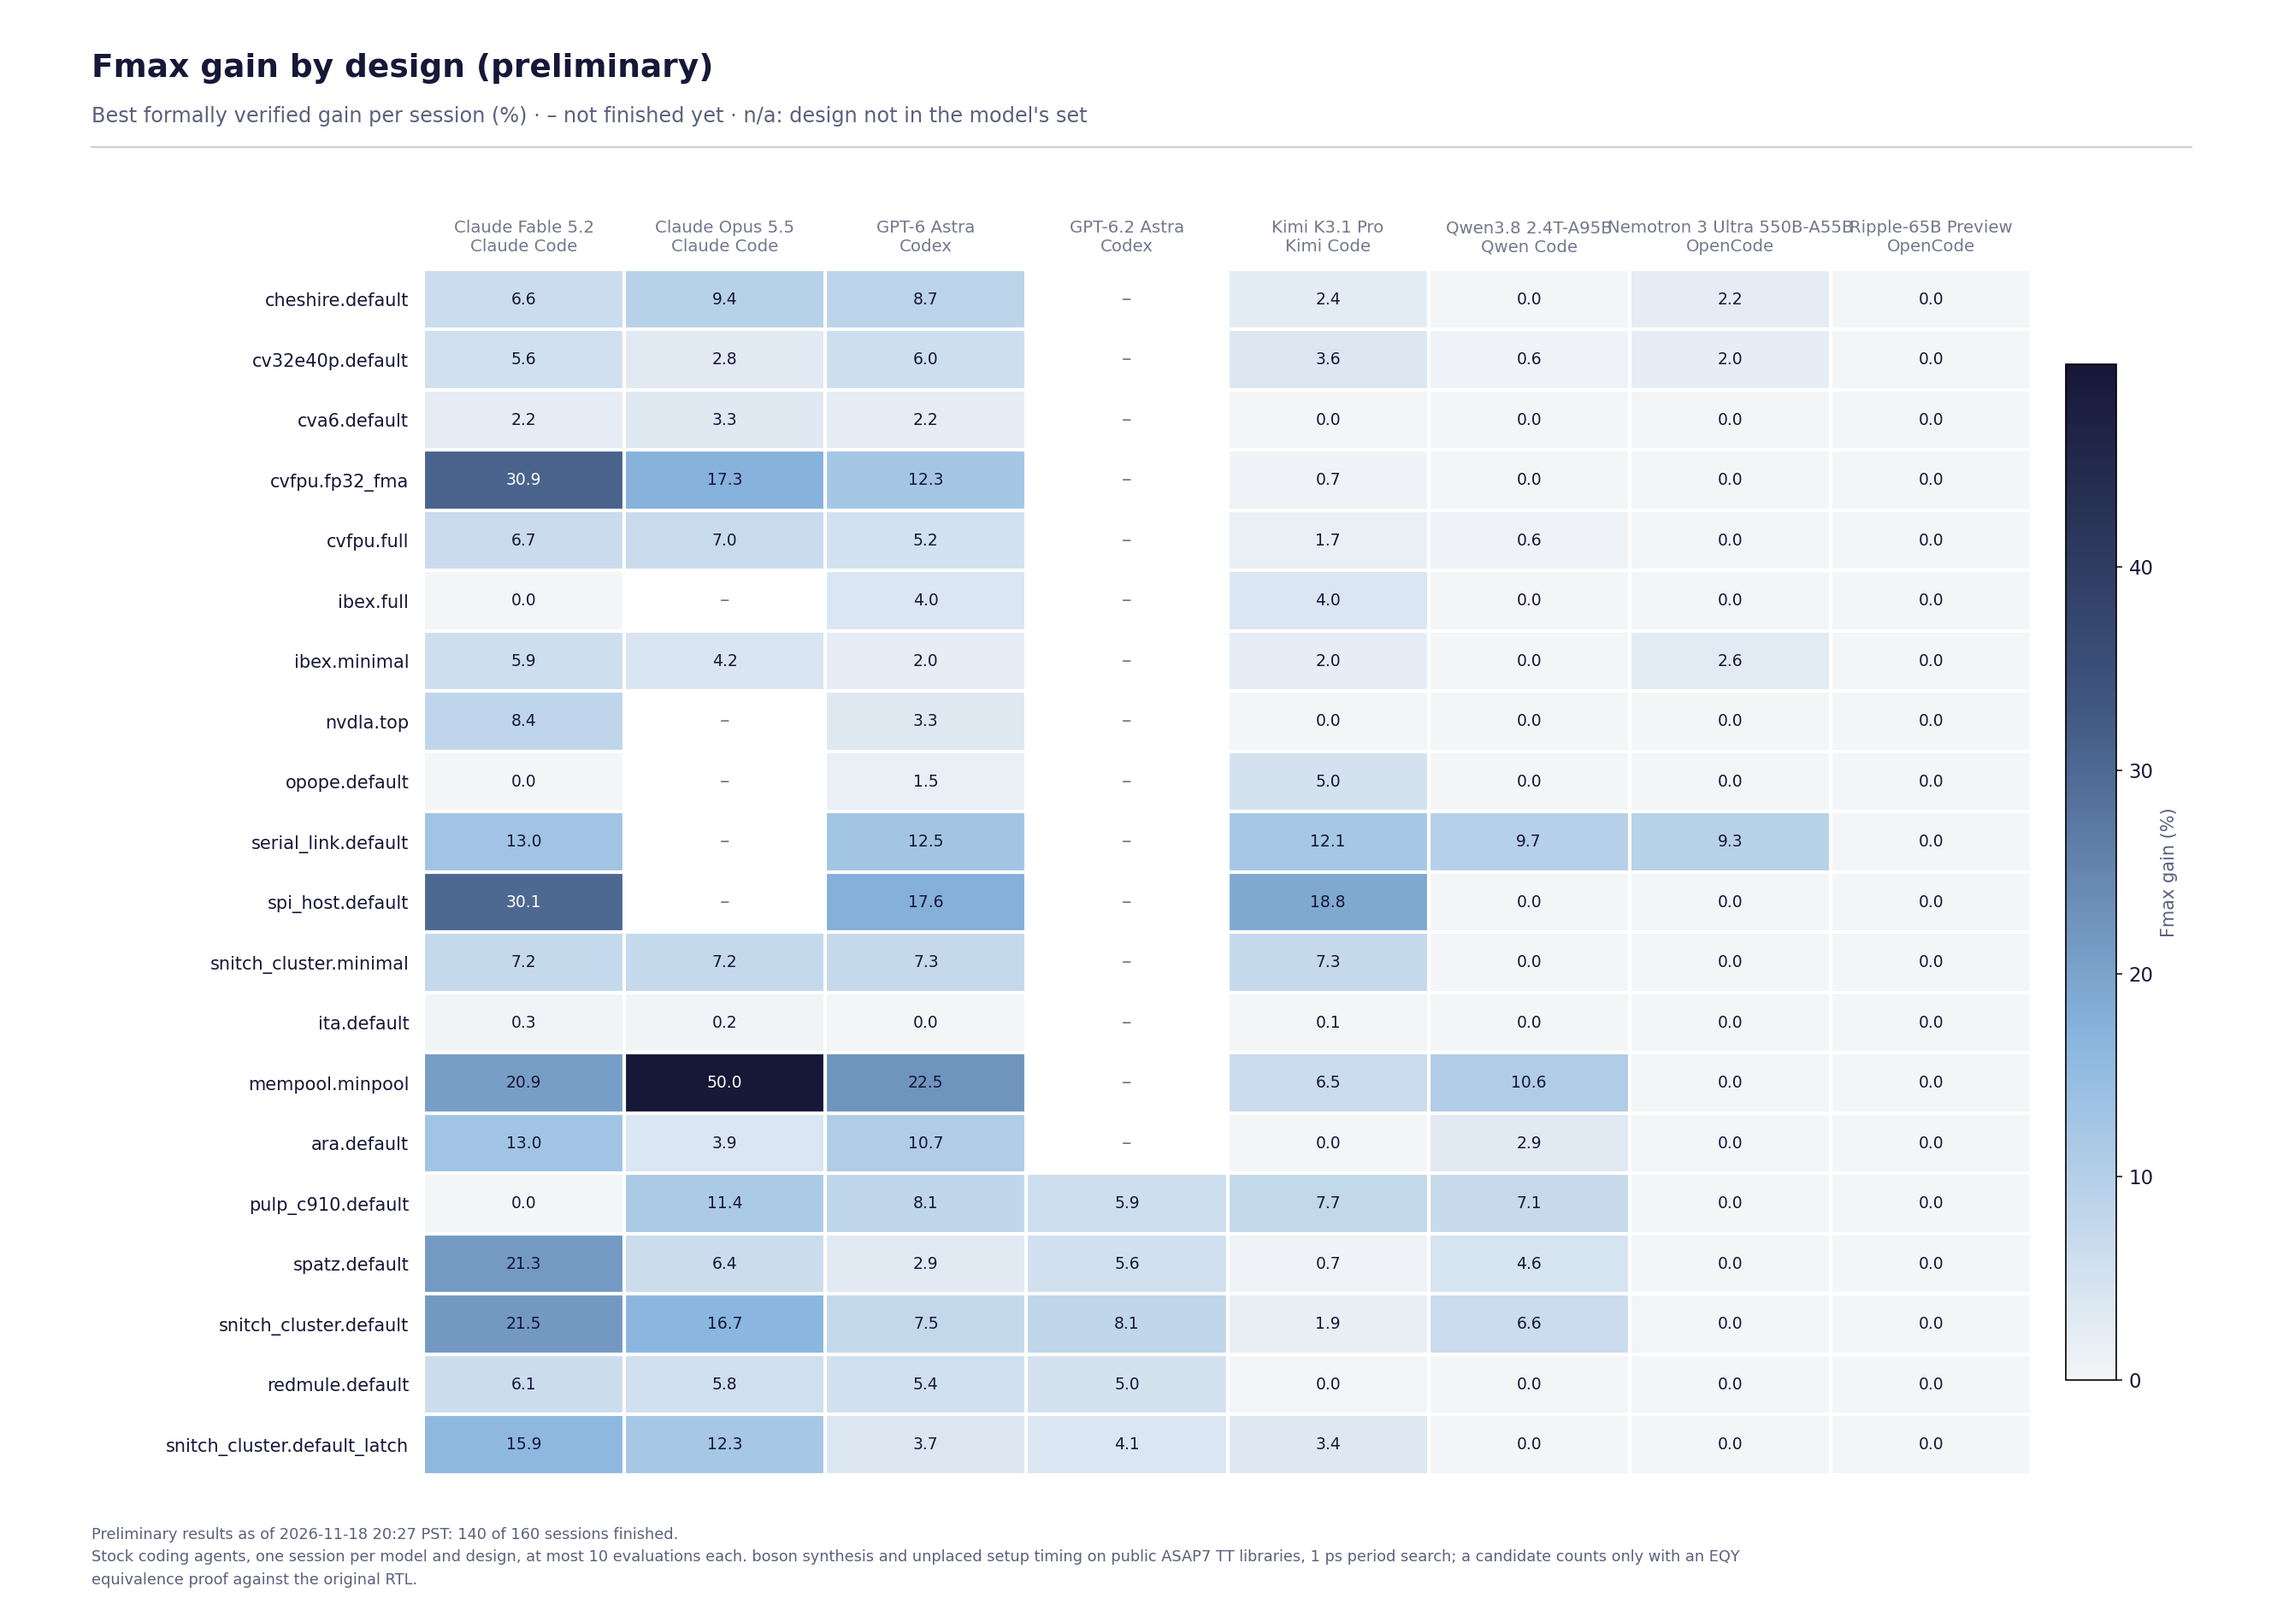
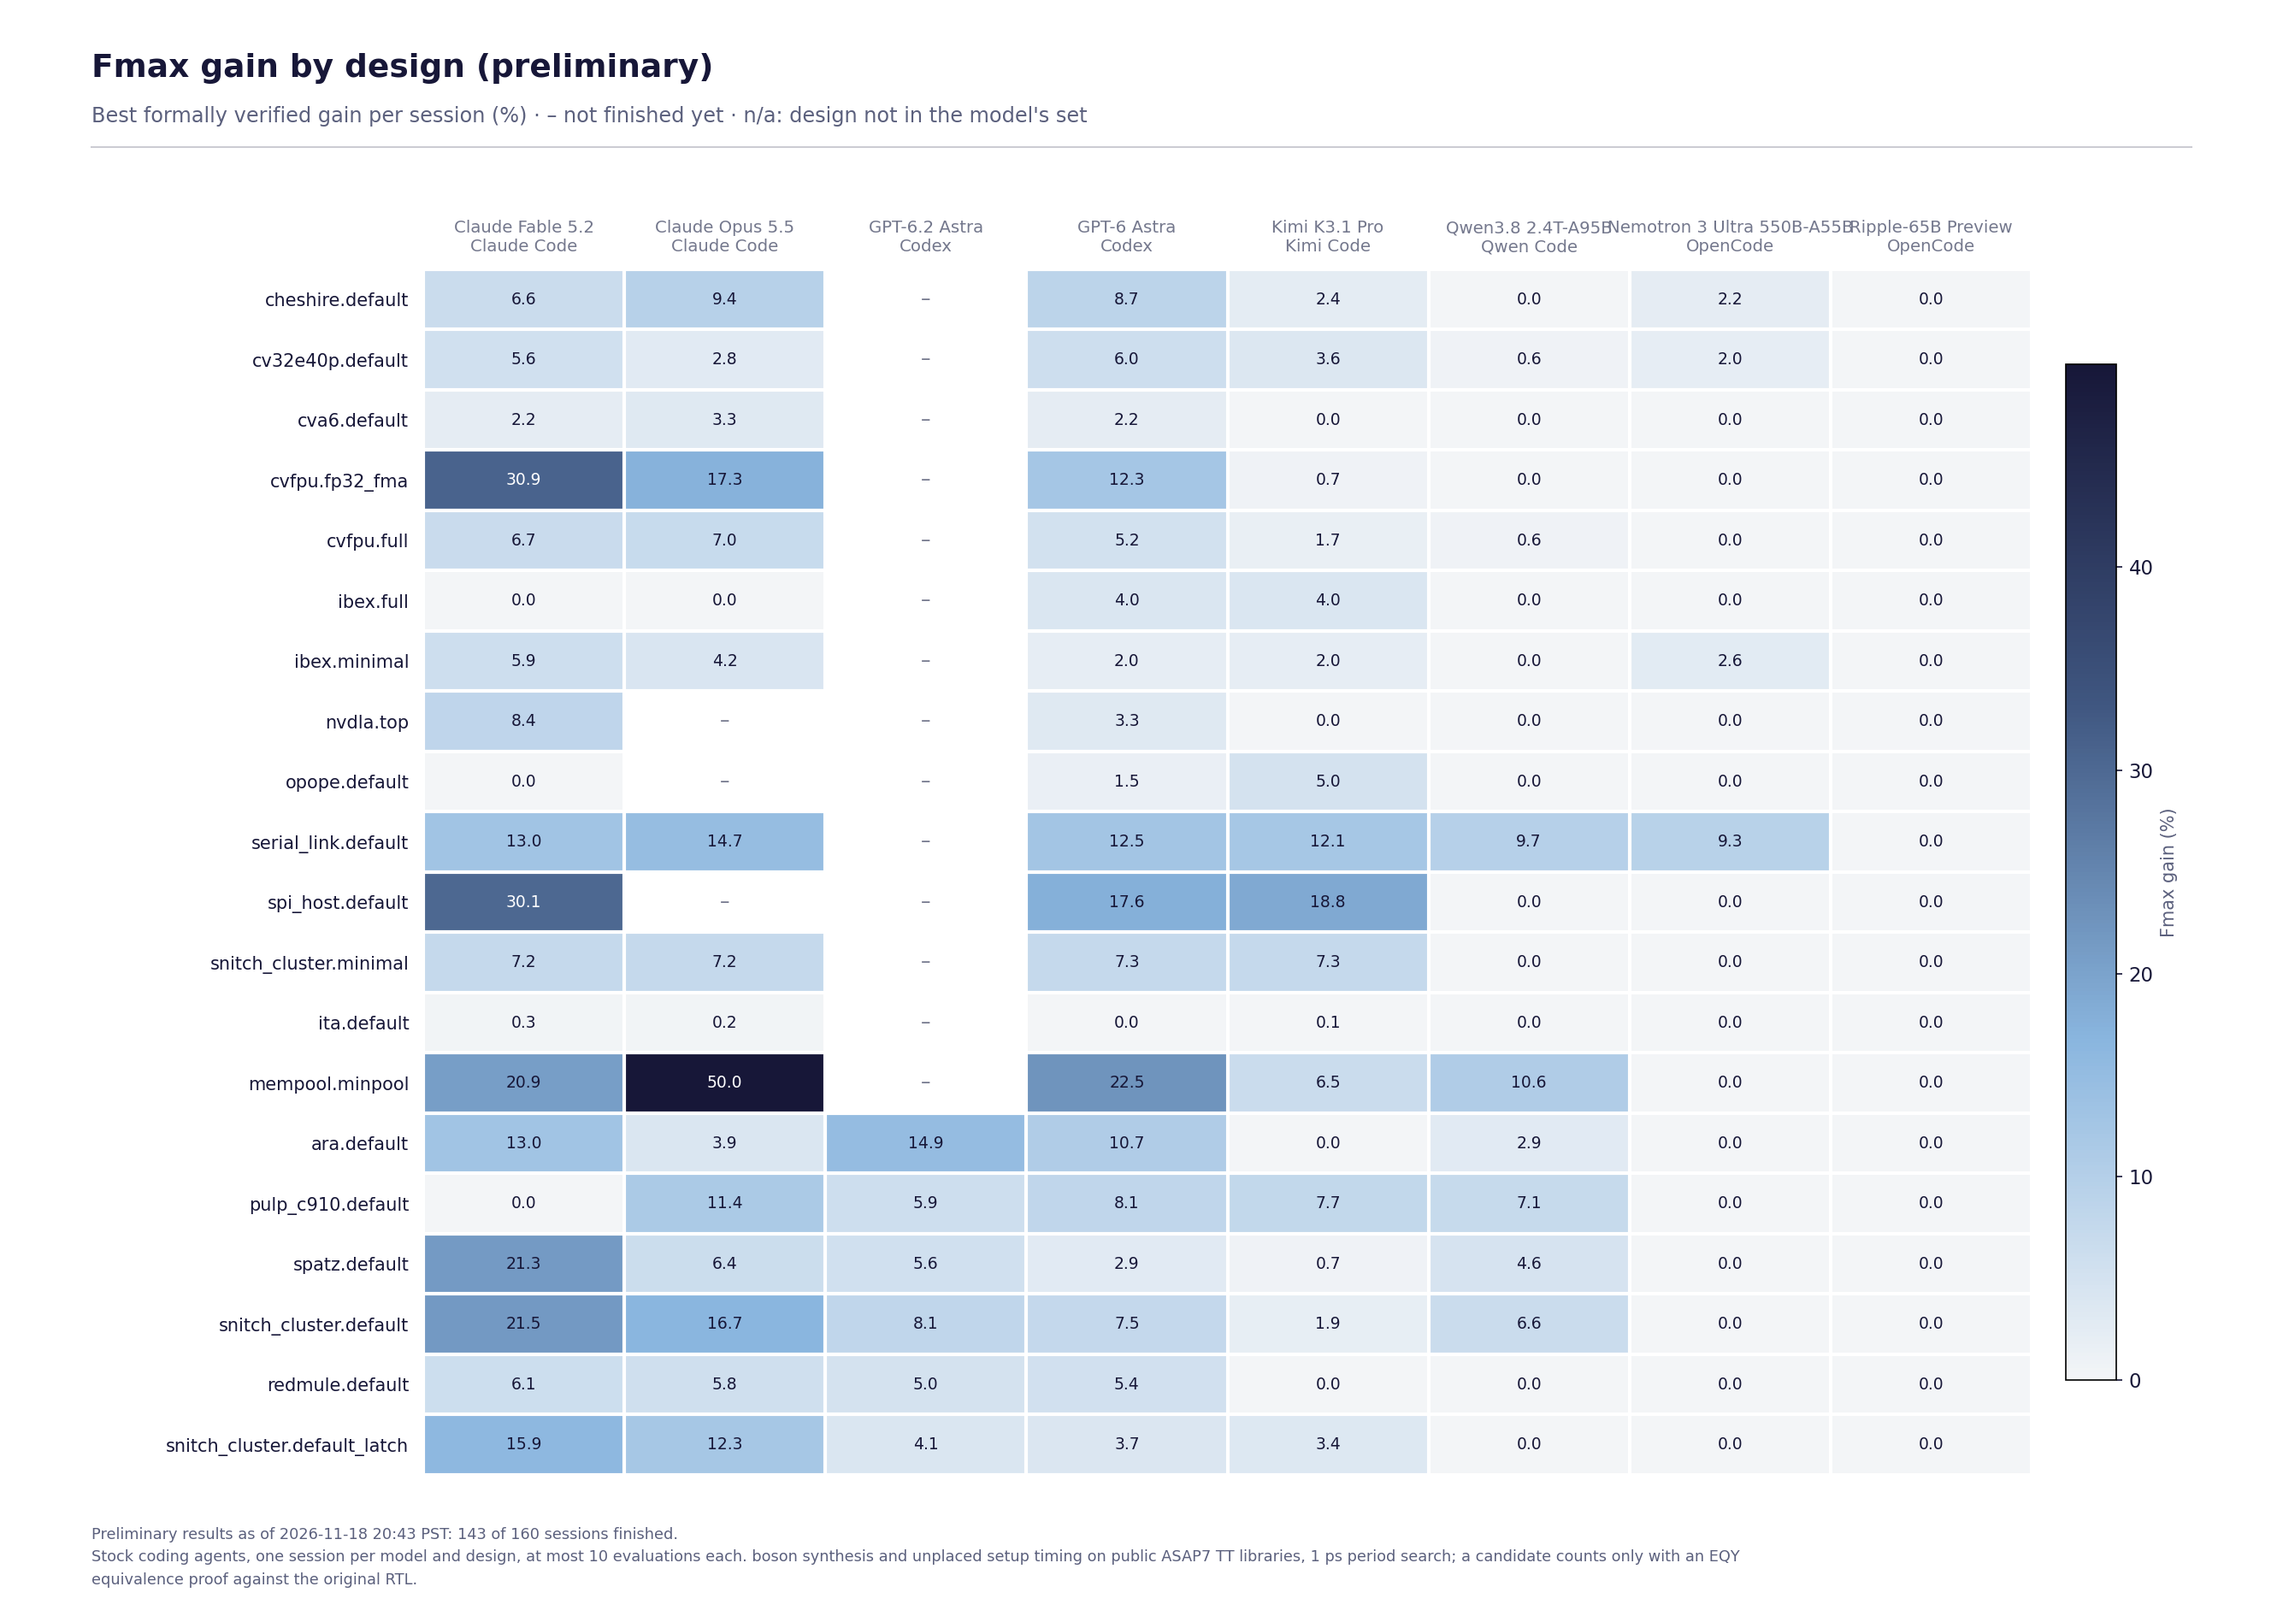
Refresh preliminary results: 143 of 160 sessions finished
Data as of 2026-11-18 20:43 PST.

Changed region(s): [[0.3419, 0.1249, 0.5596, 0.4683], [0.2487, 0.4995, 0.5596, 0.7492]]

diff --git a/README.md b/README.md
@@ -22,7 +22,7 @@ accepted only when it is proven equivalent and faster than the session's best so
 ## Results
 
 <!-- results:start -->
-**Status:** 140 of 160 sessions finished (8 models, 20 designs), as of 2026-11-18 20:27 PST.
+**Status:** 143 of 160 sessions finished (8 models, 20 designs), as of 2026-11-18 20:43 PST.
 
 ### Coverage
 
@@ -34,20 +34,20 @@ accepted only when it is proven equivalent and faster than the session's best so
 | Qwen3.8 2.4T-A95B | Qwen (Alibaba) | Qwen Code 0.27.1 | OpenRouter, one pinned provider (SiliconFlow, FP8) | 20 / 20 |
 | Ripple-65B Preview | Ricursive AI | OpenCode 1.19.5 | Self-hosted (SGLang 0.5.19, BF16) for its first 15 designs; OpenRouter pinned to PrimeIntellect (BF16) for later sessions | 20 / 20 |
 | Nemotron 3 Ultra 550B-A55B | NVIDIA | OpenCode 1.19.5 | OpenRouter, pinned to DeepInfra (FP4), fallbacks disabled | 20 / 20 |
-| GPT-6.2 Astra | OpenAI | Codex 0.169.1 | Official CLI signed in to a subscription; reasoning effort medium, as GPT-6 Astra ran | 5 / 20 |
-| Claude Opus 5.5 | Anthropic | Claude Code 2.1.322 | Official CLI signed in to a subscription | 15 / 20 |
+| GPT-6.2 Astra | OpenAI | Codex 0.169.1 | Official CLI signed in to a subscription; reasoning effort medium, as GPT-6 Astra ran | 6 / 20 |
+| Claude Opus 5.5 | Anthropic | Claude Code 2.1.322 | Official CLI signed in to a subscription | 17 / 20 |
 
 ### Results by model
 
 | Model | Harness | Designs finished | Fmax gain (geomean) | Normalized score | Designs improved | Mean evaluations | Candidates not proven |
 |---|---|---:|---:|---:|---:|---:|---:|
-| Claude Fable 5.2 | Claude Code | 20 / 20 | +10.39% | 78.4 | 17 / 20 | 5.0 | 42% (42 / 99) |
-| Claude Opus 5.5 | Claude Code | 15 / 20 | +10.01% | 76.7 | 15 / 15 | 4.7 | 34% (24 / 71) |
-| GPT-6 Astra | Codex | 20 / 20 | +7.04% | 59.5 | 19 / 20 | 8.4 | 27% (45 / 169) |
-| GPT-6.2 Astra | Codex | 5 / 20 | +5.73% | 44.7 | 5 / 5 | 8.2 | 56% (23 / 41) |
-| Kimi K3.1 Pro | Kimi Code | 20 / 20 | +3.81% | 37.6 | 16 / 20 | 5.9 | 63% (74 / 118) |
-| Qwen3.8 2.4T-A95B | Qwen Code | 20 / 20 | +2.08% | 12.6 | 8 / 20 | 2.1 | 67% (28 / 42) |
-| Nemotron 3 Ultra 550B-A55B | OpenCode | 20 / 20 | +0.79% | 8.7 | 4 / 20 | 6.2 | 72% (89 / 123) |
+| Claude Fable 5.2 | Claude Code | 20 / 20 | +10.39% | 77.1 | 17 / 20 | 5.0 | 42% (42 / 99) |
+| Claude Opus 5.5 | Claude Code | 17 / 20 | +9.66% | 73.3 | 16 / 17 | 4.5 | 36% (28 / 77) |
+| GPT-6.2 Astra | Codex | 6 / 20 | +7.21% | 53.9 | 6 / 6 | 8.0 | 54% (26 / 48) |
+| GPT-6 Astra | Codex | 20 / 20 | +7.04% | 58.4 | 19 / 20 | 8.4 | 27% (45 / 169) |
+| Kimi K3.1 Pro | Kimi Code | 20 / 20 | +3.81% | 37.0 | 16 / 20 | 5.9 | 63% (74 / 118) |
+| Qwen3.8 2.4T-A95B | Qwen Code | 20 / 20 | +2.08% | 12.0 | 8 / 20 | 2.1 | 67% (28 / 42) |
+| Nemotron 3 Ultra 550B-A55B | OpenCode | 20 / 20 | +0.79% | 8.2 | 4 / 20 | 6.2 | 72% (89 / 123) |
 | Ripple-65B Preview | OpenCode | 20 / 20 | +0.00% | 0.0 | 0 / 20 | 0.1 | 100% (3 / 3) |
 
 Fmax gain is the geometric mean of each finished session's Fmax ratio (baseline period / best accepted period) over the designs that model has finished. Normalized score is the mean of its gain on each design as a percentage of the best gain any model here reached on that design (100: the best result on every design), so every design counts equally however much headroom it had. Models have finished different designs, so this order is provisional, not a like-for-like ranking, until every model covers the same designs. "Candidates not proven" is the share of evaluations whose equivalence proof did not pass.
@@ -61,16 +61,16 @@ Fmax gain is the geometric mean of each finished session's Fmax ratio (baseline 
 | `cva6.default` | 1.038 | 7 | 1.005 | +3.28% | Claude Opus 5.5 |
 | `cvfpu.fp32_fma` | 1.401 | 7 | 1.070 | +30.93% | Claude Fable 5.2 |
 | `cvfpu.full` | 2.114 | 7 | 1.976 | +6.98% | Claude Opus 5.5 |
-| `ibex.full` | 0.935 | 6 | 0.899 | +4.00% | GPT-6 Astra, Kimi K3.1 Pro |
+| `ibex.full` | 0.935 | 7 | 0.899 | +4.00% | GPT-6 Astra, Kimi K3.1 Pro |
 | `ibex.minimal` | 0.716 | 7 | 0.676 | +5.92% | Claude Fable 5.2 |
 | `nvdla.top` | 0.789 | 6 | 0.728 | +8.38% | Claude Fable 5.2 |
 | `opope.default` | 0.857 | 6 | 0.816 | +5.02% | Kimi K3.1 Pro |
-| `serial_link.default` | 0.305 | 6 | 0.270 | +12.96% | Claude Fable 5.2 |
+| `serial_link.default` | 0.305 | 7 | 0.266 | +14.66% | Claude Opus 5.5 |
 | `spi_host.default` | 0.475 | 6 | 0.365 | +30.14% | Claude Fable 5.2 |
 | `snitch_cluster.minimal` | 1.288 | 7 | 1.200 | +7.33% | GPT-6 Astra, Kimi K3.1 Pro |
 | `ita.default` | 0.903 | 7 | 0.900 | +0.33% | Claude Fable 5.2 |
 | `mempool.minpool` | 2.869 | 7 | 1.913 | +49.97% | Claude Opus 5.5 |
-| `ara.default` | 1.064 | 7 | 0.942 | +12.95% | Claude Fable 5.2 |
+| `ara.default` | 1.064 | 8 | 0.926 | +14.90% | GPT-6.2 Astra |
 | `pulp_c910.default` | 1.005 | 8 | 0.902 | +11.42% | Claude Opus 5.5 |
 | `spatz.default` | 2.266 | 8 | 1.868 | +21.31% | Claude Fable 5.2 |
 | `snitch_cluster.default` | 2.128 | 8 | 1.751 | +21.53% | Claude Fable 5.2 |
@@ -81,9 +81,9 @@ Fmax gain is the geometric mean of each finished session's Fmax ratio (baseline 
 
 Counts over every finished session of the models above. They describe what happened; with one session per model and design they do not establish causes or rankings.
 
-- 666 candidates evaluated: 191 accepted, 139 proven equivalent but not faster than the session's best, 328 not proven (240 with a partition EQY could not prove, 39 at the proof deadline, 43 over the proof memory budget, 6 for another reason), 8 failed to compile or measure.
-- Of 140 finished sessions, 95 ended with the agent finishing on its own, 44 ran to the time budget and 1 ended with an agent error.
-- Sessions used 4.8 of the 10 allowed evaluations on average; 22 used all 10.
+- 679 candidates evaluated: 197 accepted, 139 proven equivalent but not faster than the session's best, 335 not proven (243 with a partition EQY could not prove, 40 at the proof deadline, 46 over the proof memory budget, 6 for another reason), 8 failed to compile or measure.
+- Of 143 finished sessions, 97 ended with the agent finishing on its own, 45 ran to the time budget and 1 ended with an agent error.
+- Sessions used 4.7 of the 10 allowed evaluations on average; 22 used all 10.
 - Largest single gain so far: `mempool.minpool` by Claude Opus 5.5, 2.869 ns to 1.913 ns (+49.97% Fmax).
 <!-- results:end -->
 
